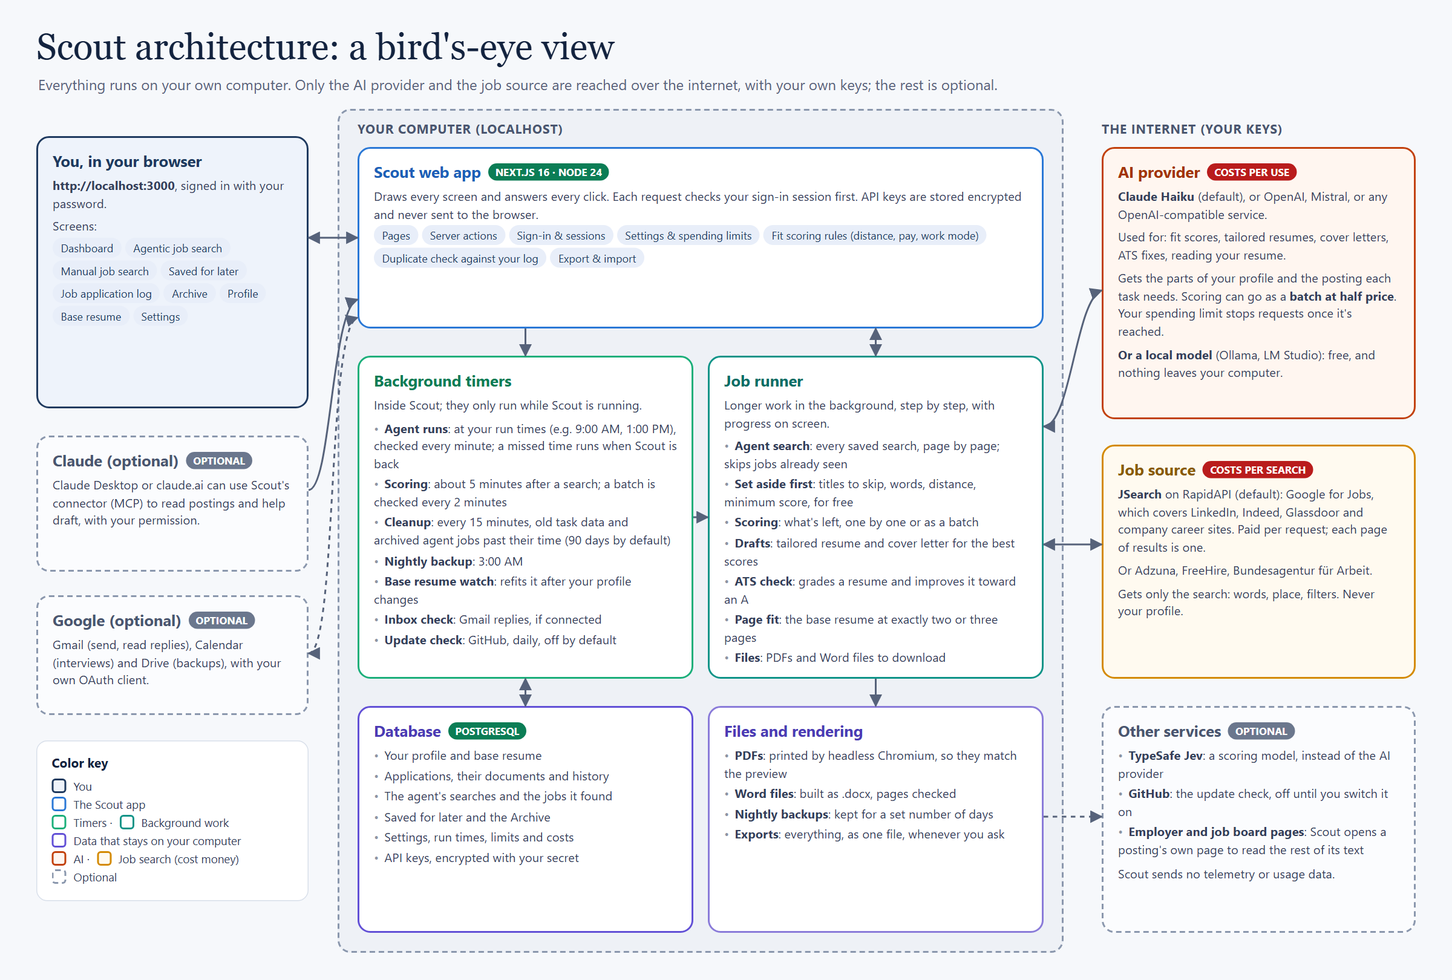
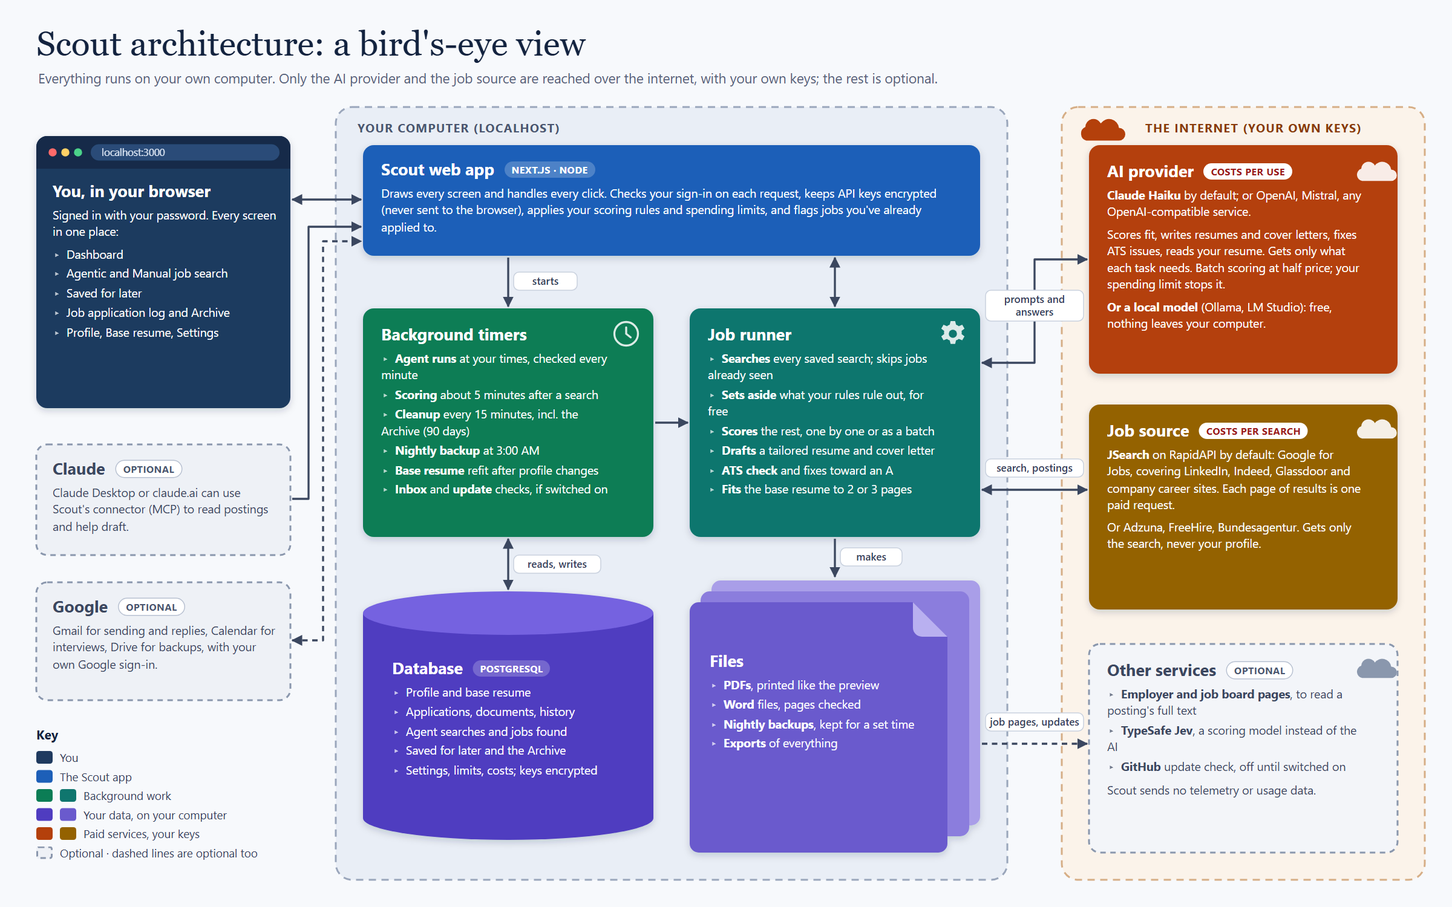
Architecture diagram redrawn as a proper one-pager

diff --git a/docs/architecture.html b/docs/architecture.html
@@ -3,197 +3,227 @@
 <head>
 <meta charset="utf-8">
 <title>Scout architecture</title>
-<!-- The source of docs/images/architecture.png: rendered at 1600x1080 by Playwright. -->
+<!-- The source of docs/images/architecture.png: rendered at 1600x1000 (scale 1.5) by Playwright. -->
 <style>
   * { box-sizing: border-box; margin: 0; padding: 0; }
-  html, body { width: 1600px; height: 1080px; }
-  body { font-family: "Segoe UI", system-ui, sans-serif; color: #1b2433; background: #f6f8fb; position: relative; overflow: hidden; }
-  h1 { position: absolute; left: 40px; top: 28px; font-family: Georgia, "Times New Roman", serif; font-weight: 400; font-size: 40px; color: #13233f; }
-  .sub { position: absolute; left: 42px; top: 82px; font-size: 16px; color: #56627a; }
-  .box { position: absolute; border-radius: 14px; padding: 14px 16px; border: 2px solid; background: #fff; }
-  .box h2 { font-size: 17px; font-weight: 700; margin-bottom: 6px; display: flex; align-items: center; gap: 8px; }
-  .box p, .box li { font-size: 13.5px; line-height: 1.45; color: #34405a; }
-  .box ul { list-style: none; display: flex; flex-direction: column; gap: 3px; }
-  .box li::before { content: "•"; color: currentColor; opacity: .55; margin-right: 6px; }
-  .tag { font-size: 11px; font-weight: 700; padding: 2px 8px; border-radius: 999px; color: #fff; letter-spacing: .02em; }
-  .chip { display: inline-block; font-size: 12px; padding: 3px 9px; border-radius: 999px; margin: 3px 4px 0 0; background: #e8eef9; color: #1f3a5f; }
-  /* Color code */
-  .you { border-color: #1f3a5f; background: #eef3fb; }
-  .you h2 { color: #1f3a5f; }
-  .host { border: 2px dashed #8a97ad; background: #eef1f6; }
-  .app { border-color: #2a78d6; }
-  .app h2 { color: #1d5fb8; }
-  .timers { border-color: #1baf7a; }
-  .timers h2 { color: #0b7d55; }
-  .runner { border-color: #0f9488; }
-  .runner h2 { color: #0b6e66; }
-  .data { border-color: #6250d6; }
-  .data h2 { color: #4b3bb5; }
-  .files { border-color: #8a7bd9; }
-  .files h2 { color: #4b3bb5; }
-  .ai { border-color: #c2410c; background: #fff6f0; }
-  .ai h2 { color: #a33408; }
-  .jobs { border-color: #d48a00; background: #fffaf0; }
-  .jobs h2 { color: #8a5a00; }
-  .optional { border: 2px dashed #8a97ad; background: #fbfcfe; }
-  .optional h2 { color: #4a5670; }
-  .cost { background: #b91c1c; }
-  .free { background: #0b7d55; }
-  .opt { background: #6b778d; }
-  .hostlabel { position: absolute; font-size: 14px; font-weight: 700; color: #4a5670; letter-spacing: .04em; text-transform: uppercase; }
+  html, body { width: 1600px; height: 1000px; }
+  body { font-family: "Segoe UI", system-ui, sans-serif; background: #f7f9fc; position: relative; overflow: hidden; color: #1b2433; }
   svg { position: absolute; left: 0; top: 0; }
-  .label { font-size: 12.5px; fill: #34405a; }
-  .legend { position: absolute; left: 40px; top: 816px; width: 300px; background: #fff; border: 1px solid #d8dfea; border-radius: 12px; padding: 14px 16px; }
-  .legend h3 { font-size: 14px; margin-bottom: 8px; color: #13233f; }
-  .legend div { display: flex; align-items: center; gap: 8px; font-size: 12.5px; color: #34405a; margin: 4px 0; }
-  .sw { width: 16px; height: 16px; border-radius: 4px; border: 2px solid; flex: none; }
+  .t { position: absolute; color: #fff; }
+  .t h2 { font-size: 18px; font-weight: 700; margin-bottom: 6px; }
+  .t p, .t li { font-size: 13px; line-height: 1.42; }
+  .t ul { list-style: none; display: flex; flex-direction: column; gap: 3px; }
+  .t li::before { content: "▸"; opacity: .7; margin-right: 6px; font-size: 11px; }
+  .t b { font-weight: 700; }
+  .dark { color: #1b2433; }
+  .dark h2 { color: #3b475f; }
+  .dark p, .dark li { color: #3b475f; }
+  .pill { display: inline-block; font-size: 10.5px; font-weight: 700; letter-spacing: .04em; padding: 2px 8px; border-radius: 999px; background: rgba(255,255,255,.22); margin-left: 6px; vertical-align: 2px; }
+  .pill.cost { background: #fff; color: #9b1c1c; }
+  .pill.opt { background: #fff; color: #4a5670; border: 1px solid #b8c1d1; }
+  h1 { position: absolute; left: 40px; top: 26px; font-family: Georgia, "Times New Roman", serif; font-weight: 400; font-size: 38px; color: #13233f; }
+  .sub { position: absolute; left: 42px; top: 76px; font-size: 15px; color: #56627a; }
+  .zone { position: absolute; font-size: 13px; font-weight: 700; letter-spacing: .08em; text-transform: uppercase; }
+  .key { position: absolute; left: 40px; top: 800px; width: 280px; }
+  .key h3 { font-size: 14px; color: #13233f; margin-bottom: 8px; }
+  .key div { display: flex; align-items: center; gap: 8px; font-size: 12.5px; color: #34405a; margin: 5px 0; }
+  .sw { width: 18px; height: 14px; border-radius: 3px; flex: none; }
+  .lbl { font-size: 11.5px; font-weight: 600; fill: #34405a; }
 </style>
 </head>
 <body>
   <h1>Scout architecture: a bird's-eye view</h1>
   <p class="sub">Everything runs on your own computer. Only the AI provider and the job source are reached over the internet, with your own keys; the rest is optional.</p>
 
-  <!-- The user -->
-  <div class="box you" style="left:40px; top:150px; width:300px; height:300px;">
+  <svg width="1600" height="1000" viewBox="0 0 1600 1000">
+    <defs>
+      <!-- A clear, solid arrow tip that keeps its shape at any angle. -->
+      <marker id="tip" viewBox="0 0 12 12" refX="11" refY="6" markerWidth="12" markerHeight="12" markerUnits="userSpaceOnUse" orient="auto-start-reverse">
+        <path d="M0,0 L12,6 L0,12 z" fill="#3b475f" />
+      </marker>
+      <filter id="lift" x="-10%" y="-10%" width="120%" height="130%"><feDropShadow dx="0" dy="3" stdDeviation="4" flood-color="#13233f" flood-opacity=".18" /></filter>
+    </defs>
+
+    <!-- Zones -->
+    <rect x="370" y="118" width="740" height="852" rx="18" fill="#e9eef6" stroke="#9aa6bb" stroke-width="2" stroke-dasharray="8 6" />
+    <rect x="1170" y="118" width="400" height="852" rx="18" fill="#fbf3ea" stroke="#d6ae86" stroke-width="2" stroke-dasharray="8 6" />
+    <!-- A cloud beside the internet zone's name -->
+    <path d="M1196 140 a9 9 0 0 1 17 -4 a11 11 0 0 1 20 5 a7 7 0 0 1 0 14 h-36 a8 8 0 0 1 -1 -15 z" fill="#b4400b" />
+
+    <!-- You: a browser window -->
+    <g filter="url(#lift)">
+      <rect x="40" y="150" width="280" height="300" rx="12" fill="#1f3a5f" />
+      <path d="M40 162 a12 12 0 0 1 12 -12 h256 a12 12 0 0 1 12 12 v24 h-280 z" fill="#132a49" />
+      <circle cx="58" cy="168" r="4.5" fill="#ff6b6b" /><circle cx="72" cy="168" r="4.5" fill="#ffd166" /><circle cx="86" cy="168" r="4.5" fill="#4cd38a" />
+      <rect x="100" y="159" width="208" height="18" rx="9" fill="#2b4c78" />
+      <text x="112" y="172" font-size="11" fill="#dfe8f6">localhost:3000</text>
+    </g>
+
+    <!-- Optional accounts -->
+    <rect x="40" y="490" width="280" height="122" rx="12" fill="#eef1f6" stroke="#8a97ad" stroke-width="2" stroke-dasharray="6 5" />
+    <rect x="40" y="642" width="280" height="130" rx="12" fill="#eef1f6" stroke="#8a97ad" stroke-width="2" stroke-dasharray="6 5" />
+
+    <!-- The Scout app -->
+    <rect x="400" y="160" width="680" height="122" rx="12" fill="#1d5fb8" filter="url(#lift)" />
+    <!-- Background timers, with a clock -->
+    <rect x="400" y="340" width="320" height="252" rx="12" fill="#0b7d55" filter="url(#lift)" />
+    <g transform="translate(690 368)" fill="none" stroke="#fff" stroke-width="2.2" opacity=".85"><circle r="13" /><path d="M0 -7 V0 L5 4" stroke-linecap="round" /></g>
+    <!-- Job runner, with a gear -->
+    <rect x="760" y="340" width="320" height="252" rx="12" fill="#0f766e" filter="url(#lift)" />
+    <g transform="translate(1050 368)" fill="#fff" opacity=".85">
+      <path d="M-2.5 -14 h5 l1 4 a10 10 0 0 1 3 1.6 l3.8 -1.6 l2.5 4.3 l-3.2 2.6 a10 10 0 0 1 0 3.4 l3.2 2.6 l-2.5 4.3 l-3.8 -1.6 a10 10 0 0 1 -3 1.6 l-1 4 h-5 l-1 -4 a10 10 0 0 1 -3 -1.6 l-3.8 1.6 l-2.5 -4.3 l3.2 -2.6 a10 10 0 0 1 0 -3.4 l-3.2 -2.6 l2.5 -4.3 l3.8 1.6 a10 10 0 0 1 3 -1.6 z" />
+      <circle r="4.5" fill="#0f766e" />
+    </g>
+
+    <!-- Database: a cylinder -->
+    <g filter="url(#lift)">
+      <path d="M400 676 v226 a160 24 0 0 0 320 0 v-226 z" fill="#4f3cc0" />
+      <ellipse cx="560" cy="676" rx="160" ry="24" fill="#7462e0" />
+    </g>
+
+    <!-- Files: a stack of pages with a folded corner -->
+    <g filter="url(#lift)">
+      <rect x="784" y="640" width="296" height="270" rx="10" fill="#a99ee8" />
+      <rect x="772" y="652" width="296" height="270" rx="10" fill="#8b7ddd" />
+      <path d="M760 674 a10 10 0 0 1 10 -10 h236 l38 38 v228 a10 10 0 0 1 -10 10 h-264 a10 10 0 0 1 -10 -10 z" fill="#6a5acd" />
+      <path d="M1006 664 v28 a10 10 0 0 0 10 10 h28 z" fill="#b9b0f0" />
+    </g>
+
+    <!-- The internet: AI provider and job source (solid), other services (optional) -->
+    <rect x="1200" y="160" width="340" height="252" rx="12" fill="#b4400b" filter="url(#lift)" />
+    <rect x="1200" y="446" width="340" height="226" rx="12" fill="#946200" filter="url(#lift)" />
+    <rect x="1200" y="710" width="340" height="230" rx="12" fill="#f3f5f9" stroke="#8a97ad" stroke-width="2" stroke-dasharray="6 5" />
+    <!-- Cloud badges on the internet services -->
+    <path d="M1500 186 a8 8 0 0 1 15 -3.5 a10 10 0 0 1 18 4.5 a6 6 0 0 1 0 12.5 h-32 a7 7 0 0 1 -1 -13.5 z" fill="#fff" opacity=".9" />
+    <path d="M1500 470 a8 8 0 0 1 15 -3.5 a10 10 0 0 1 18 4.5 a6 6 0 0 1 0 12.5 h-32 a7 7 0 0 1 -1 -13.5 z" fill="#fff" opacity=".9" />
+    <path d="M1500 734 a8 8 0 0 1 15 -3.5 a10 10 0 0 1 18 4.5 a6 6 0 0 1 0 12.5 h-32 a7 7 0 0 1 -1 -13.5 z" fill="#8a97ad" />
+
+    <!-- Connections: straight lines with right-angle turns, a clear tip at each end that's an input. -->
+    <g stroke="#3b475f" stroke-width="2.2" fill="none" stroke-linejoin="round">
+      <path d="M322 220 H398" marker-start="url(#tip)" marker-end="url(#tip)" />
+      <path d="M322 550 H340 V250 H398" marker-end="url(#tip)" />
+      <path d="M322 706 H356 V266 H398" stroke-dasharray="6 5" marker-start="url(#tip)" marker-end="url(#tip)" />
+      <path d="M560 284 V338" marker-end="url(#tip)" />
+      <path d="M920 284 V338" marker-start="url(#tip)" marker-end="url(#tip)" />
+      <path d="M722 466 H758" marker-end="url(#tip)" />
+      <path d="M560 594 V650" marker-start="url(#tip)" marker-end="url(#tip)" />
+      <path d="M920 594 V636" marker-end="url(#tip)" />
+      <path d="M1082 400 H1140 V286 H1198" marker-start="url(#tip)" marker-end="url(#tip)" />
+      <path d="M1082 540 H1198" marker-start="url(#tip)" marker-end="url(#tip)" />
+      <path d="M1082 820 H1198" stroke-dasharray="6 5" marker-end="url(#tip)" />
+    </g>
+    <!-- Labels on the connections -->
+    <g>
+      <rect x="1086" y="320" width="108" height="34" rx="6" fill="#fff" stroke="#c9d1de" />
+      <text class="lbl" x="1140" y="334" text-anchor="middle">prompts and</text>
+      <text class="lbl" x="1140" y="348" text-anchor="middle">answers</text>
+      <rect x="1086" y="506" width="108" height="20" rx="6" fill="#fff" stroke="#c9d1de" />
+      <text class="lbl" x="1140" y="520" text-anchor="middle">search, postings</text>
+      <rect x="1086" y="786" width="108" height="20" rx="6" fill="#fff" stroke="#c9d1de" />
+      <text class="lbl" x="1140" y="800" text-anchor="middle">job pages, updates</text>
+      <rect x="566" y="300" width="70" height="20" rx="6" fill="#fff" stroke="#c9d1de" />
+      <text class="lbl" x="601" y="314" text-anchor="middle">starts</text>
+      <rect x="566" y="612" width="96" height="20" rx="6" fill="#fff" stroke="#c9d1de" />
+      <text class="lbl" x="614" y="626" text-anchor="middle">reads, writes</text>
+      <rect x="926" y="604" width="68" height="20" rx="6" fill="#fff" stroke="#c9d1de" />
+      <text class="lbl" x="960" y="618" text-anchor="middle">makes</text>
+    </g>
+  </svg>
+
+  <div class="zone" style="left:394px; top:132px; color:#4a5670;">Your computer (localhost)</div>
+  <div class="zone" style="left:1262px; top:132px; color:#8a3a0a;">The internet (your own keys)</div>
+
+  <div class="t" style="left:58px; top:198px; width:250px;">
     <h2>You, in your browser</h2>
-    <p><b>http://localhost:3000</b>, signed in with your password.</p>
-    <p style="margin-top:6px">Screens:</p>
-    <span class="chip">Dashboard</span><span class="chip">Agentic job search</span><span class="chip">Manual job search</span><span class="chip">Saved for later</span><span class="chip">Job application log</span><span class="chip">Archive</span><span class="chip">Profile</span><span class="chip">Base resume</span><span class="chip">Settings</span>
+    <p>Signed in with your password. Every screen in one place:</p>
+    <ul style="margin-top:6px">
+      <li>Dashboard</li><li>Agentic and Manual job search</li><li>Saved for later</li><li>Job application log and Archive</li><li>Profile, Base resume, Settings</li>
+    </ul>
   </div>
-  <div class="box optional" style="left:40px; top:480px; width:300px; height:150px;">
-    <h2>Claude (optional) <span class="tag opt">OPTIONAL</span></h2>
-    <p>Claude Desktop or claude.ai can use Scout's connector (MCP) to read postings and help draft, with your permission.</p>
+  <div class="t dark" style="left:58px; top:504px; width:250px;">
+    <h2>Claude <span class="pill opt">OPTIONAL</span></h2>
+    <p>Claude Desktop or claude.ai can use Scout's connector (MCP) to read postings and help draft.</p>
   </div>
-  <div class="box optional" style="left:40px; top:656px; width:300px; height:132px;">
-    <h2>Google (optional) <span class="tag opt">OPTIONAL</span></h2>
-    <p>Gmail (send, read replies), Calendar (interviews) and Drive (backups), with your own OAuth client.</p>
-  </div>
-
-  <!-- Your computer -->
-  <div class="box host" style="left:372px; top:120px; width:800px; height:930px;"></div>
-  <div class="hostlabel" style="left:394px; top:132px;">Your computer (localhost)</div>
-
-  <div class="box app" style="left:394px; top:162px; width:756px; height:200px;">
-    <h2>Scout web app <span class="tag free">NEXT.JS 16 · NODE 24</span></h2>
-    <p>Draws every screen and answers every click. Each request checks your sign-in session first. API keys are stored encrypted and never sent to the browser.</p>
-    <span class="chip">Pages</span><span class="chip">Server actions</span><span class="chip">Sign-in &amp; sessions</span><span class="chip">Settings &amp; spending limits</span><span class="chip">Fit scoring rules (distance, pay, work mode)</span><span class="chip">Duplicate check against your log</span><span class="chip">Export &amp; import</span>
+  <div class="t dark" style="left:58px; top:656px; width:250px;">
+    <h2>Google <span class="pill opt">OPTIONAL</span></h2>
+    <p>Gmail for sending and replies, Calendar for interviews, Drive for backups, with your own Google sign-in.</p>
   </div>
 
-  <div class="box timers" style="left:394px; top:392px; width:370px; height:356px;">
+  <div class="t" style="left:420px; top:174px; width:640px;">
+    <h2>Scout web app <span class="pill">NEXT.JS · NODE</span></h2>
+    <p>Draws every screen and handles every click. Checks your sign-in on each request, keeps API keys encrypted (never sent to the browser), applies your scoring rules and spending limits, and flags jobs you've already applied to.</p>
+  </div>
+  <div class="t" style="left:420px; top:356px; width:250px;">
     <h2>Background timers</h2>
-    <p style="margin-bottom:6px">Inside Scout; they only run while Scout is running.</p>
     <ul>
-      <li><b>Agent runs</b>: at your run times (e.g. 9:00 AM, 1:00 PM), checked every minute; a missed time runs when Scout is back</li>
-      <li><b>Scoring</b>: about 5 minutes after a search; a batch is checked every 2 minutes</li>
-      <li><b>Cleanup</b>: every 15 minutes, old task data and archived agent jobs past their time (90 days by default)</li>
-      <li><b>Nightly backup</b>: 3:00 AM</li>
-      <li><b>Base resume watch</b>: refits it after your profile changes</li>
-      <li><b>Inbox check</b>: Gmail replies, if connected</li>
-      <li><b>Update check</b>: GitHub, daily, off by default</li>
+      <li><b>Agent runs</b> at your times, checked every minute</li>
+      <li><b>Scoring</b> about 5 minutes after a search</li>
+      <li><b>Cleanup</b> every 15 minutes, incl. the Archive (90 days)</li>
+      <li><b>Nightly backup</b> at 3:00 AM</li>
+      <li><b>Base resume</b> refit after profile changes</li>
+      <li><b>Inbox</b> and <b>update</b> checks, if switched on</li>
     </ul>
   </div>
-
-  <div class="box runner" style="left:780px; top:392px; width:370px; height:356px;">
+  <div class="t" style="left:780px; top:356px; width:250px;">
     <h2>Job runner</h2>
-    <p style="margin-bottom:6px">Longer work in the background, step by step, with progress on screen.</p>
     <ul>
-      <li><b>Agent search</b>: every saved search, page by page; skips jobs already seen</li>
-      <li><b>Set aside first</b>: titles to skip, words, distance, minimum score, for free</li>
-      <li><b>Scoring</b>: what's left, one by one or as a batch</li>
-      <li><b>Drafts</b>: tailored resume and cover letter for the best scores</li>
-      <li><b>ATS check</b>: grades a resume and improves it toward an A</li>
-      <li><b>Page fit</b>: the base resume at exactly two or three pages</li>
-      <li><b>Files</b>: PDFs and Word files to download</li>
+      <li><b>Searches</b> every saved search; skips jobs already seen</li>
+      <li><b>Sets aside</b> what your rules rule out, for free</li>
+      <li><b>Scores</b> the rest, one by one or as a batch</li>
+      <li><b>Drafts</b> a tailored resume and cover letter</li>
+      <li><b>ATS check</b> and fixes toward an A</li>
+      <li><b>Fits</b> the base resume to 2 or 3 pages</li>
     </ul>
   </div>
-
-  <div class="box data" style="left:394px; top:778px; width:370px; height:250px;">
-    <h2>Database <span class="tag free">POSTGRESQL</span></h2>
+  <div class="t" style="left:432px; top:724px; width:256px;">
+    <h2>Database <span class="pill">POSTGRESQL</span></h2>
     <ul>
-      <li>Your profile and base resume</li>
-      <li>Applications, their documents and history</li>
-      <li>The agent's searches and the jobs it found</li>
+      <li>Profile and base resume</li>
+      <li>Applications, documents, history</li>
+      <li>Agent searches and jobs found</li>
       <li>Saved for later and the Archive</li>
-      <li>Settings, run times, limits and costs</li>
-      <li>API keys, encrypted with your secret</li>
+      <li>Settings, limits, costs; keys encrypted</li>
+    </ul>
+  </div>
+  <div class="t" style="left:782px; top:716px; width:240px;">
+    <h2>Files</h2>
+    <ul>
+      <li><b>PDFs</b>, printed like the preview</li>
+      <li><b>Word</b> files, pages checked</li>
+      <li><b>Nightly backups</b>, kept for a set time</li>
+      <li><b>Exports</b> of everything</li>
     </ul>
   </div>
 
-  <div class="box files" style="left:780px; top:778px; width:370px; height:250px;">
-    <h2>Files and rendering</h2>
+  <div class="t" style="left:1220px; top:176px; width:280px;">
+    <h2>AI provider <span class="pill cost">COSTS PER USE</span></h2>
+    <p><b>Claude Haiku</b> by default; or OpenAI, Mistral, any OpenAI-compatible service.</p>
+    <p style="margin-top:6px">Scores fit, writes resumes and cover letters, fixes ATS issues, reads your resume. Gets only what each task needs. Batch scoring at half price; your spending limit stops it.</p>
+    <p style="margin-top:6px"><b>Or a local model</b> (Ollama, LM Studio): free, nothing leaves your computer.</p>
+  </div>
+  <div class="t" style="left:1220px; top:462px; width:280px;">
+    <h2>Job source <span class="pill cost">COSTS PER SEARCH</span></h2>
+    <p><b>JSearch</b> on RapidAPI by default: Google for Jobs, covering LinkedIn, Indeed, Glassdoor and company career sites. Each page of results is one paid request.</p>
+    <p style="margin-top:6px">Or Adzuna, FreeHire, Bundesagentur. Gets only the search, never your profile.</p>
+  </div>
+  <div class="t dark" style="left:1220px; top:726px; width:280px;">
+    <h2>Other services <span class="pill opt">OPTIONAL</span></h2>
     <ul>
-      <li><b>PDFs</b>: printed by headless Chromium, so they match the preview</li>
-      <li><b>Word files</b>: built as .docx, pages checked</li>
-      <li><b>Nightly backups</b>: kept for a set number of days</li>
-      <li><b>Exports</b>: everything, as one file, whenever you ask</li>
-    </ul>
-  </div>
-
-  <!-- The internet -->
-  <div class="hostlabel" style="left:1214px; top:132px;">The internet (your keys)</div>
-  <div class="box ai" style="left:1214px; top:162px; width:346px; height:300px;">
-    <h2>AI provider <span class="tag cost">COSTS PER USE</span></h2>
-    <p><b>Claude Haiku</b> (default), or OpenAI, Mistral, or any OpenAI-compatible service.</p>
-    <p style="margin-top:6px">Used for: fit scores, tailored resumes, cover letters, ATS fixes, reading your resume.</p>
-    <p style="margin-top:6px">Gets the parts of your profile and the posting each task needs. Scoring can go as a <b>batch at half price</b>. Your spending limit stops requests once it's reached.</p>
-    <p style="margin-top:6px"><b>Or a local model</b> (Ollama, LM Studio): free, and nothing leaves your computer.</p>
-  </div>
-
-  <div class="box jobs" style="left:1214px; top:490px; width:346px; height:258px;">
-    <h2>Job source <span class="tag cost">COSTS PER SEARCH</span></h2>
-    <p><b>JSearch</b> on RapidAPI (default): Google for Jobs, which covers LinkedIn, Indeed, Glassdoor and company career sites. Paid per request; each page of results is one.</p>
-    <p style="margin-top:6px">Or Adzuna, FreeHire, Bundesagentur für Arbeit.</p>
-    <p style="margin-top:6px">Gets only the search: words, place, filters. Never your profile.</p>
-  </div>
-
-  <div class="box optional" style="left:1214px; top:778px; width:346px; height:250px;">
-    <h2>Other services <span class="tag opt">OPTIONAL</span></h2>
-    <ul>
-      <li><b>TypeSafe Jev</b>: a scoring model, instead of the AI provider</li>
-      <li><b>GitHub</b>: the update check, off until you switch it on</li>
-      <li><b>Employer and job board pages</b>: Scout opens a posting's own page to read the rest of its text</li>
+      <li><b>Employer and job board pages</b>, to read a posting's full text</li>
+      <li><b>TypeSafe Jev</b>, a scoring model instead of the AI</li>
+      <li><b>GitHub</b> update check, off until switched on</li>
     </ul>
     <p style="margin-top:8px">Scout sends no telemetry or usage data.</p>
   </div>
 
-  <!-- Legend -->
-  <div class="legend">
-    <h3>Color key</h3>
-    <div><span class="sw" style="border-color:#1f3a5f;background:#eef3fb"></span>You</div>
-    <div><span class="sw" style="border-color:#2a78d6"></span>The Scout app</div>
-    <div><span class="sw" style="border-color:#1baf7a"></span>Timers · <span class="sw" style="border-color:#0f9488"></span>Background work</div>
-    <div><span class="sw" style="border-color:#6250d6"></span>Data that stays on your computer</div>
-    <div><span class="sw" style="border-color:#c2410c;background:#fff6f0"></span>AI · <span class="sw" style="border-color:#d48a00;background:#fffaf0"></span>Job search (cost money)</div>
-    <div><span class="sw" style="border-color:#8a97ad;border-style:dashed"></span>Optional</div>
+  <div class="key">
+    <h3>Key</h3>
+    <div><span class="sw" style="background:#1f3a5f"></span>You</div>
+    <div><span class="sw" style="background:#1d5fb8"></span>The Scout app</div>
+    <div><span class="sw" style="background:#0b7d55"></span><span class="sw" style="background:#0f766e"></span>Background work</div>
+    <div><span class="sw" style="background:#4f3cc0"></span><span class="sw" style="background:#6a5acd"></span>Your data, on your computer</div>
+    <div><span class="sw" style="background:#b4400b"></span><span class="sw" style="background:#946200"></span>Paid services, your keys</div>
+    <div><span class="sw" style="background:#eef1f6; border:2px dashed #8a97ad"></span>Optional · dashed lines are optional too</div>
   </div>
-
-  <!-- Arrows -->
-  <svg width="1600" height="1080" viewBox="0 0 1600 1080">
-    <defs>
-      <marker id="a" viewBox="0 0 10 10" refX="9" refY="5" markerWidth="7" markerHeight="7" orient="auto-start-reverse"><path d="M0,0 L10,5 L0,10 z" fill="#56627a"/></marker>
-    </defs>
-    <g stroke="#56627a" stroke-width="2" fill="none">
-      <!-- You <-> app -->
-      <path d="M340 262 L394 262" marker-start="url(#a)" marker-end="url(#a)"/>
-      <!-- Claude -> app -->
-      <path d="M340 540 C 365 540, 365 340, 394 330" marker-end="url(#a)"/>
-      <!-- Google <-> app -->
-      <path d="M340 720 C 372 720, 360 360, 394 350" stroke-dasharray="5 5" marker-start="url(#a)" marker-end="url(#a)"/>
-      <!-- app <-> timers / runner -->
-      <path d="M579 362 L579 392" marker-end="url(#a)"/>
-      <path d="M965 362 L965 392" marker-start="url(#a)" marker-end="url(#a)"/>
-      <!-- timers -> runner -->
-      <path d="M764 570 L780 570" marker-end="url(#a)"/>
-      <!-- runner/app <-> database -->
-      <path d="M579 748 L579 778" marker-start="url(#a)" marker-end="url(#a)"/>
-      <path d="M965 748 L965 778" marker-end="url(#a)"/>
-      <!-- runner -> AI -->
-      <path d="M1150 470 C 1180 470, 1185 330, 1214 320" marker-start="url(#a)" marker-end="url(#a)"/>
-      <!-- runner -> job source -->
-      <path d="M1150 600 L1214 600" marker-start="url(#a)" marker-end="url(#a)"/>
-      <!-- files -> other services (reading a posting's own page, the update check) -->
-      <path d="M1150 900 L1214 900" stroke-dasharray="5 5" marker-end="url(#a)"/>
-    </g>
-  </svg>
 </body>
 </html>
